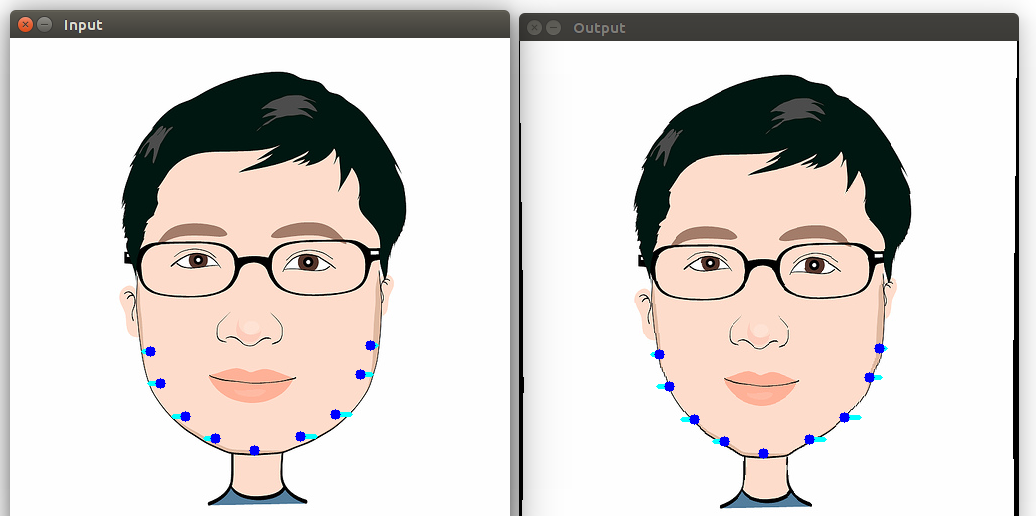
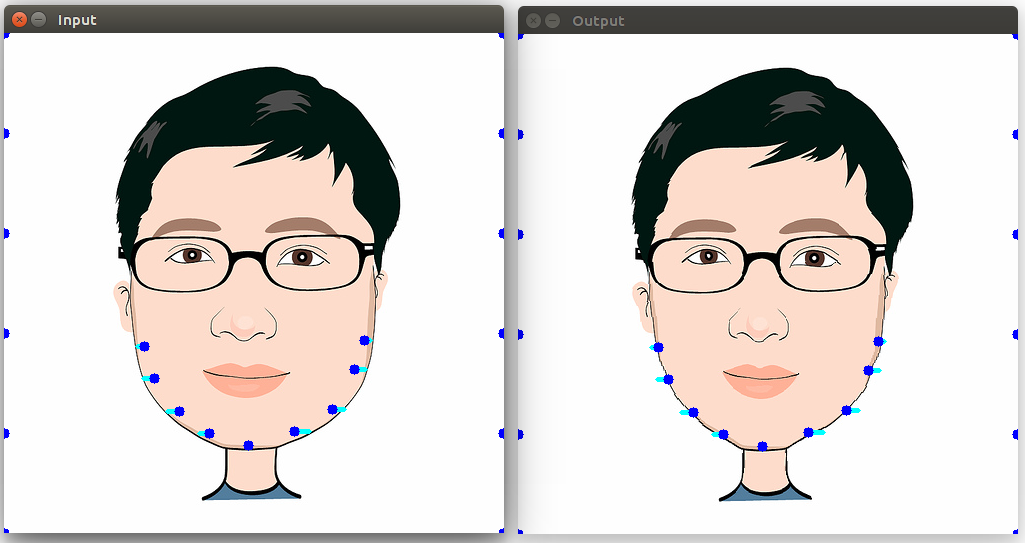
commit
commit

Changed region(s): [[0.0, 0.0, 0.999, 1.0], [0.3746, 0.2791, 0.4059, 0.3411]]

diff --git a/Warping/picture.cpp b/Warping/picture.cpp
@@ -12,8 +12,18 @@ int main()
     std::vector<cv::Point> endPoint
     {
         cv::Point(140, 313), cv::Point(150, 345), cv::Point(175, 378), cv::Point(205, 400), cv::Point(244, 412),
-        cv::Point(290, 398), cv::Point(325, 376), cv::Point(350, 336), cv::Point(360, 307)
+        cv::Point(290, 398), cv::Point(328, 376), cv::Point(350, 336), cv::Point(360, 307)
     };
+
+    for (int i = 0; i <= 5; i++)
+    {
+        startPoint.push_back(cv::Point(0, input.rows * i / 5));
+        endPoint.push_back(cv::Point(0, input.rows * i / 5));
+
+        startPoint.push_back(cv::Point(input.cols - 1, input.rows * i / 5));
+        endPoint.push_back(cv::Point(input.cols - 1, input.rows * i / 5));
+    }
+
 
     IDW idw;
     idw.SetStartControlPoint(startPoint);
